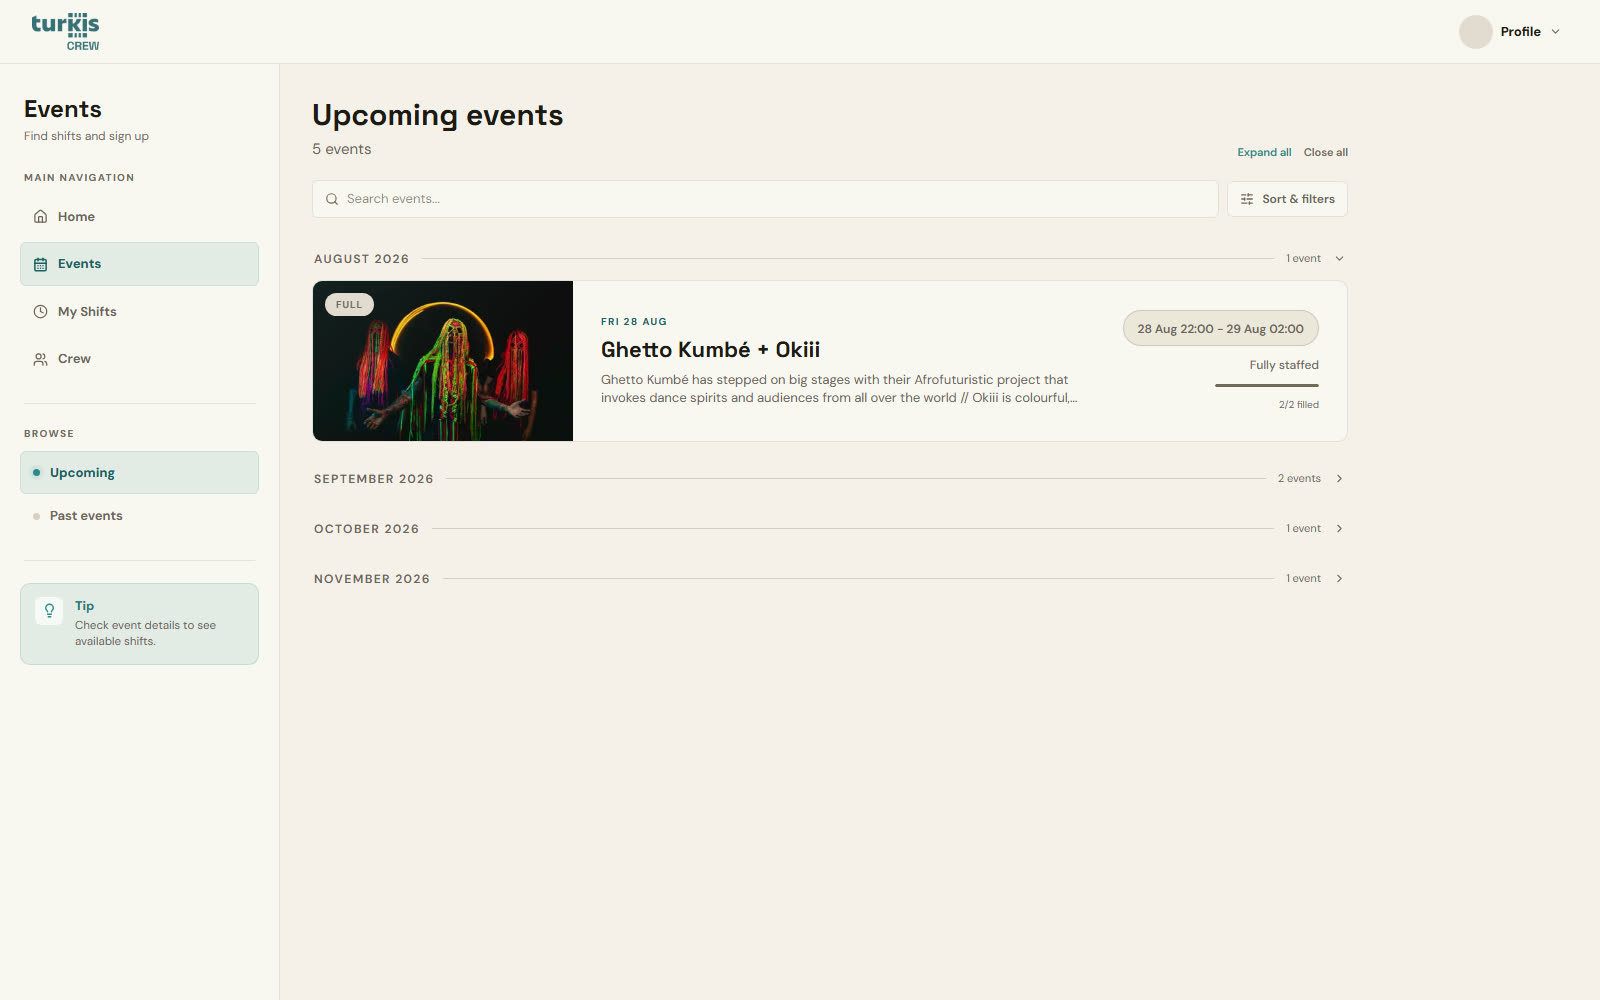
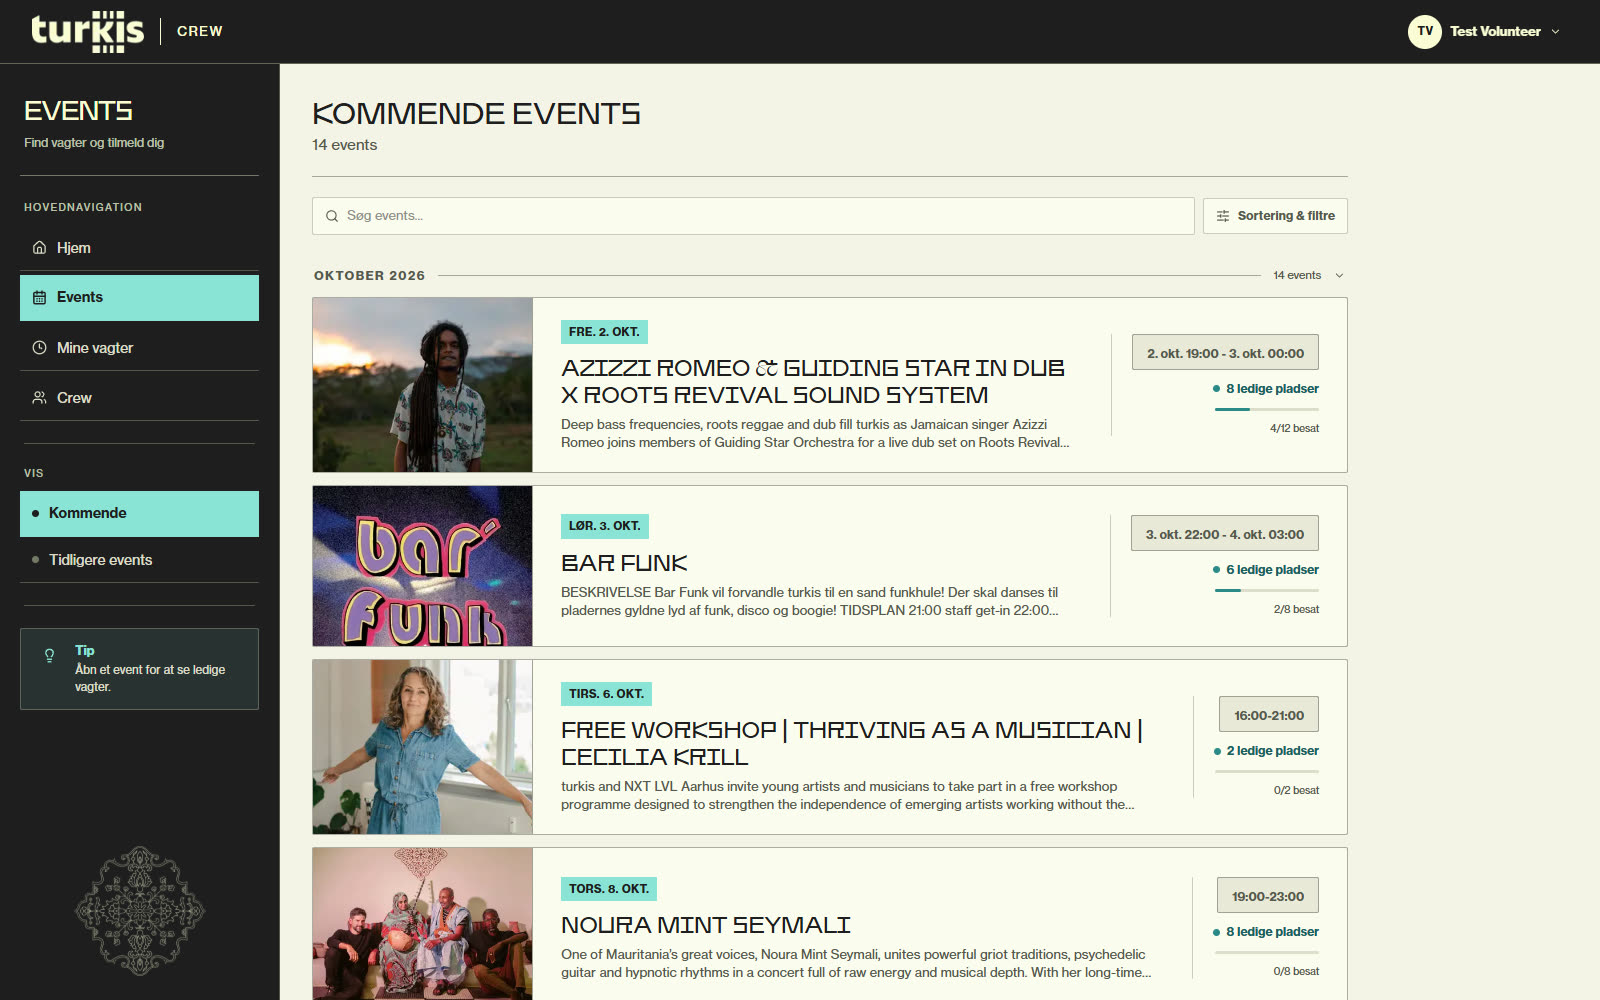
Update turkis Crew case with live platform and refreshed screenshot

diff --git a/en/index.html b/en/index.html
@@ -112,10 +112,10 @@
         <div class="project-title-row"><h3>Matchabladet</h3></div>
         <p>A Danish matcha magazine. I visit the cafés, write the reviews and built the site.</p>
       </a>
-      <a class="project" href="https://turkis.gamestormers.dk/" target="_blank" rel="noopener">
+      <a class="project" href="https://crew.turkis.nu/" target="_blank" rel="noopener">
         <figure class="project-plate"><img src="../assets/img/cases/turkis-crew.jpg" alt="" width="1600" height="1000" loading="lazy"></figure>
-        <div class="project-title-row"><h3>Turkis Crew</h3></div>
-        <p>A platform for shifts, events and information for volunteers at the turkis music venue in Aarhus. I work backstage there myself.</p>
+        <div class="project-title-row"><h3>turkis Crew</h3></div>
+        <p>I built and run the platform now used by turkis, a music venue in Aarhus, for shifts, events and volunteer information. I also volunteer backstage at the venue.</p>
       </a>
       <div class="also"><span>Also</span><p><a href="https://hygge.kasper-krog.dk" target="_blank" rel="noopener">Café Hygge</a>, a pixel café for reading.</p></div>
     </section>

diff --git a/index.html b/index.html
@@ -123,10 +123,10 @@
         <div class="project-title-row"><h3>Matchabladet</h3></div>
         <p>Et dansk matchamagasin. Jeg besøger caféerne, skriver anmeldelserne og har bygget sitet.</p>
       </a>
-      <a class="project" href="https://turkis.gamestormers.dk/" target="_blank" rel="noopener">
+      <a class="project" href="https://crew.turkis.nu/" target="_blank" rel="noopener">
         <figure class="project-plate"><img src="assets/img/cases/turkis-crew.jpg" alt="" width="1600" height="1000" loading="lazy"></figure>
-        <div class="project-title-row"><h3>Turkis Crew</h3></div>
-        <p>En platform til vagter, events og information for de frivillige på spillestedet turkis i Aarhus. Jeg arbejder selv backstage der.</p>
+        <div class="project-title-row"><h3>turkis Crew</h3></div>
+        <p>Jeg har bygget og driver platformen, som spillestedet turkis i Aarhus nu bruger til vagter, events og frivilliginformation. Jeg er selv frivillig backstage på huset.</p>
       </a>
       <div class="also">
         <span>Også</span>

diff --git a/assets/img/README.md b/assets/img/README.md
@@ -17,7 +17,7 @@ projects, real photographs, or an honest designed placeholder.
 |---|---|---|
 | `cases/folk-festival.jpg` | project 01 | Real screenshot of aarhusfolkfestival.dk (captured 2026-08) |
 | `cases/matchabladet.jpg` | project 04 | Real screenshot of matchabladet.dk |
-| `cases/turkis-crew.jpg` | project 05 | Real screenshot of the Turkis Crew events page, logged in as the disposable test volunteer. Contains no personal data; never publish shots of /home or /crew (they show real volunteers) |
+| `cases/turkis-crew.jpg` | project 05 | Real screenshot of the redesigned events page at crew.turkis.nu/events, in Danish, captured 2026-10-02 using the read-only test volunteer. Shows events and aggregate shift staffing, with no private volunteer information. Never publish shots of /home or /crew (they show real volunteers) |
 | `cases/gamestormers.jpg` | project 02 | Real screenshot of gamestormers.dk |
 | `cases/amanda-barup.jpg` | project 03 | Real screenshot of Amanda Barup Pihlkjær's live portfolio at abp-tegning.dk (captured 2026-08-27) |
 | `portraet.jpg` | hero, both languages | Real photograph of Kasper (Aarhus, 2026), cropped 4:5 and rendered greyscale by CSS |

diff --git a/KASPER.md b/KASPER.md
@@ -108,6 +108,11 @@ is one of the contrasts he wants to explore.
 Turkis Crew, software for volunteers in cultural spaces, carries this concern
 most directly.
 
+Update (October 2, 2026, confirmed by Kasper): turkis Crew is actively used by
+turkis at https://crew.turkis.nu and has a refreshed design. Kasper built and
+runs the platform for shift coordination and access to volunteer information.
+No usage counts or measured outcomes have been supplied.
+
 ### Atmosphere
 
 Atmosphere is a serious subject here: the emotional texture of places,
